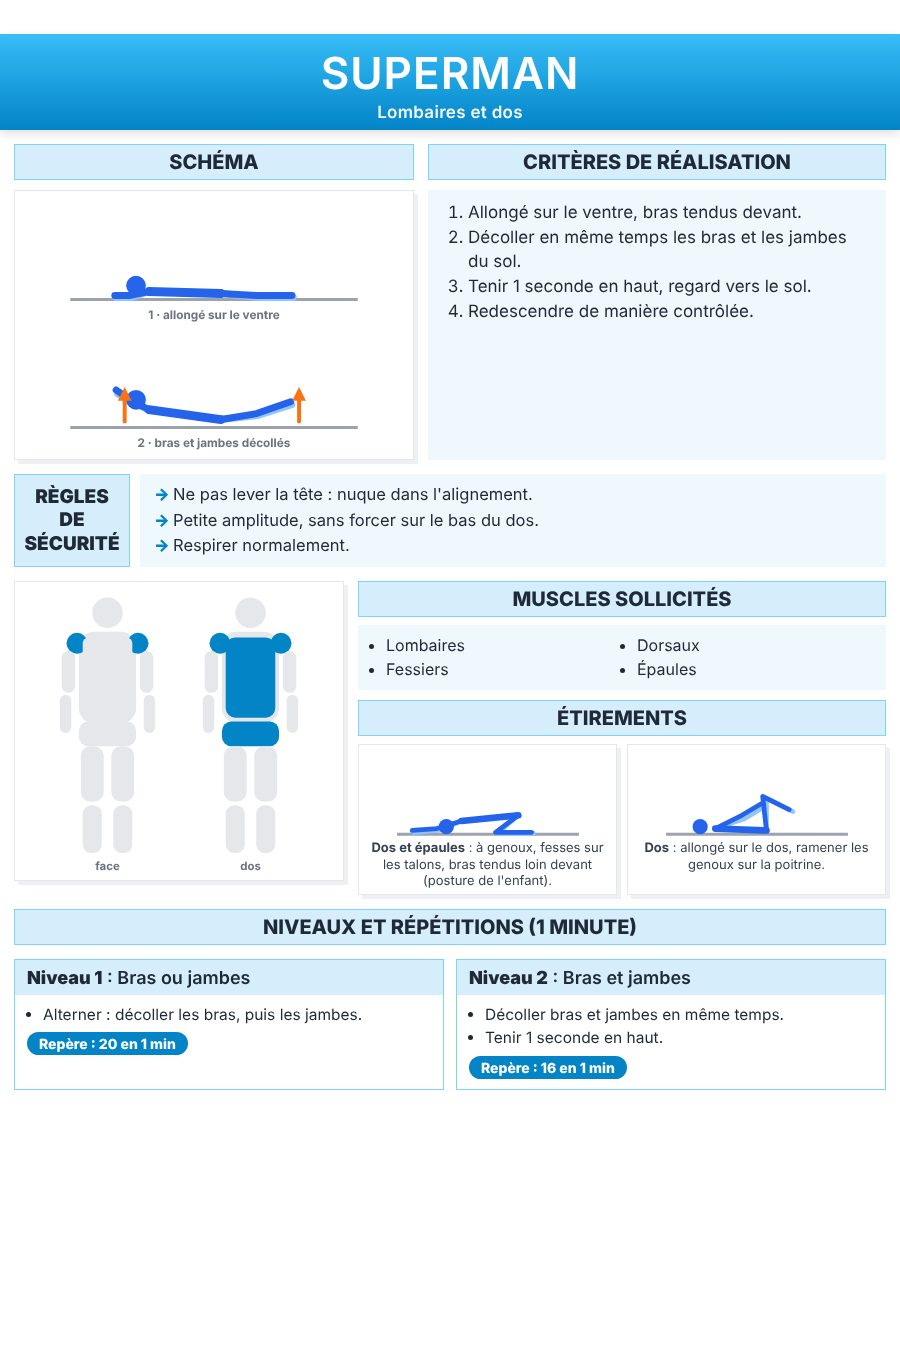
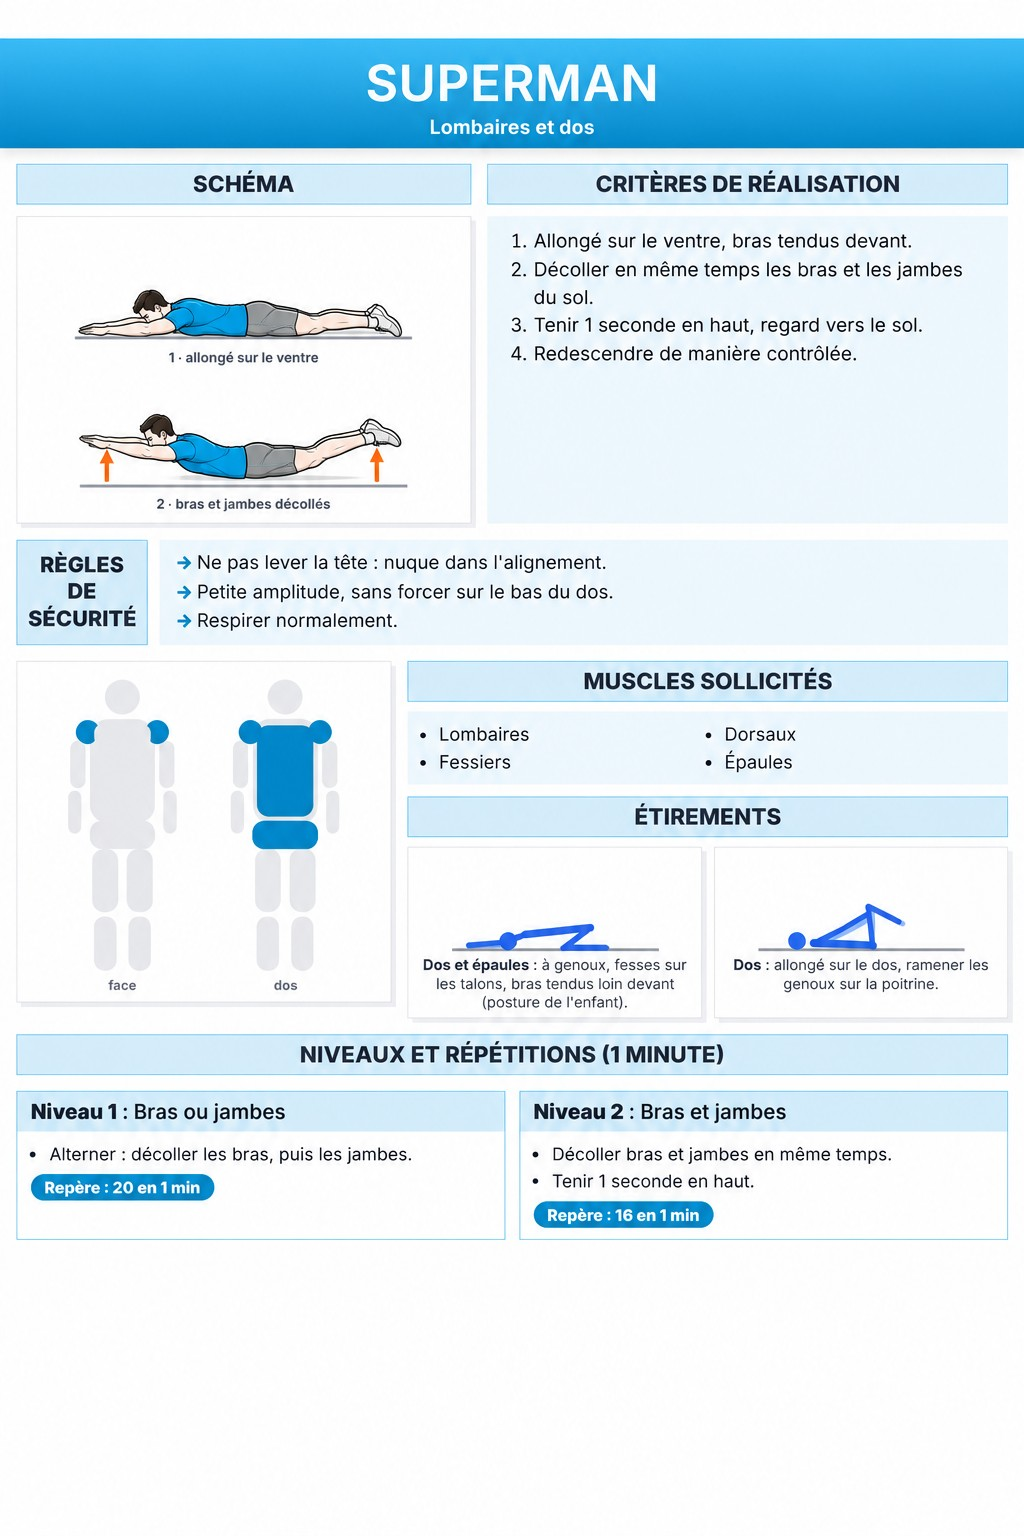
Remplacer le schéma Superman par la fiche illustrée validée

diff --git a/sw.js b/sw.js
@@ -1,6 +1,6 @@
 /* Cross Training v2 — mode hors-ligne (réseau d'abord, sinon cache).
  * Augmenter VERSION à chaque mise en ligne. */
-const VERSION = "crosstraining-v2-2026-11-09a";
+const VERSION = "crosstraining-v2-2026-11-12a";
 const PREFIX = "crosstraining-v2-";
 const FILES = ["./", "index.html", "app.css", "app.js", "data.js", "lib/qrcode.js", "lib/jsQR.js", "manifest.webmanifest", "icons/icon-192.png", "icons/icon-512.png", "icons/apple-touch-icon.png",
   "img/burpees.jpg", "img/crunch.jpg", "img/dips.jpg", "img/fentes.jpg", "img/jumping-jack.jpg", "img/mountain.jpg",
